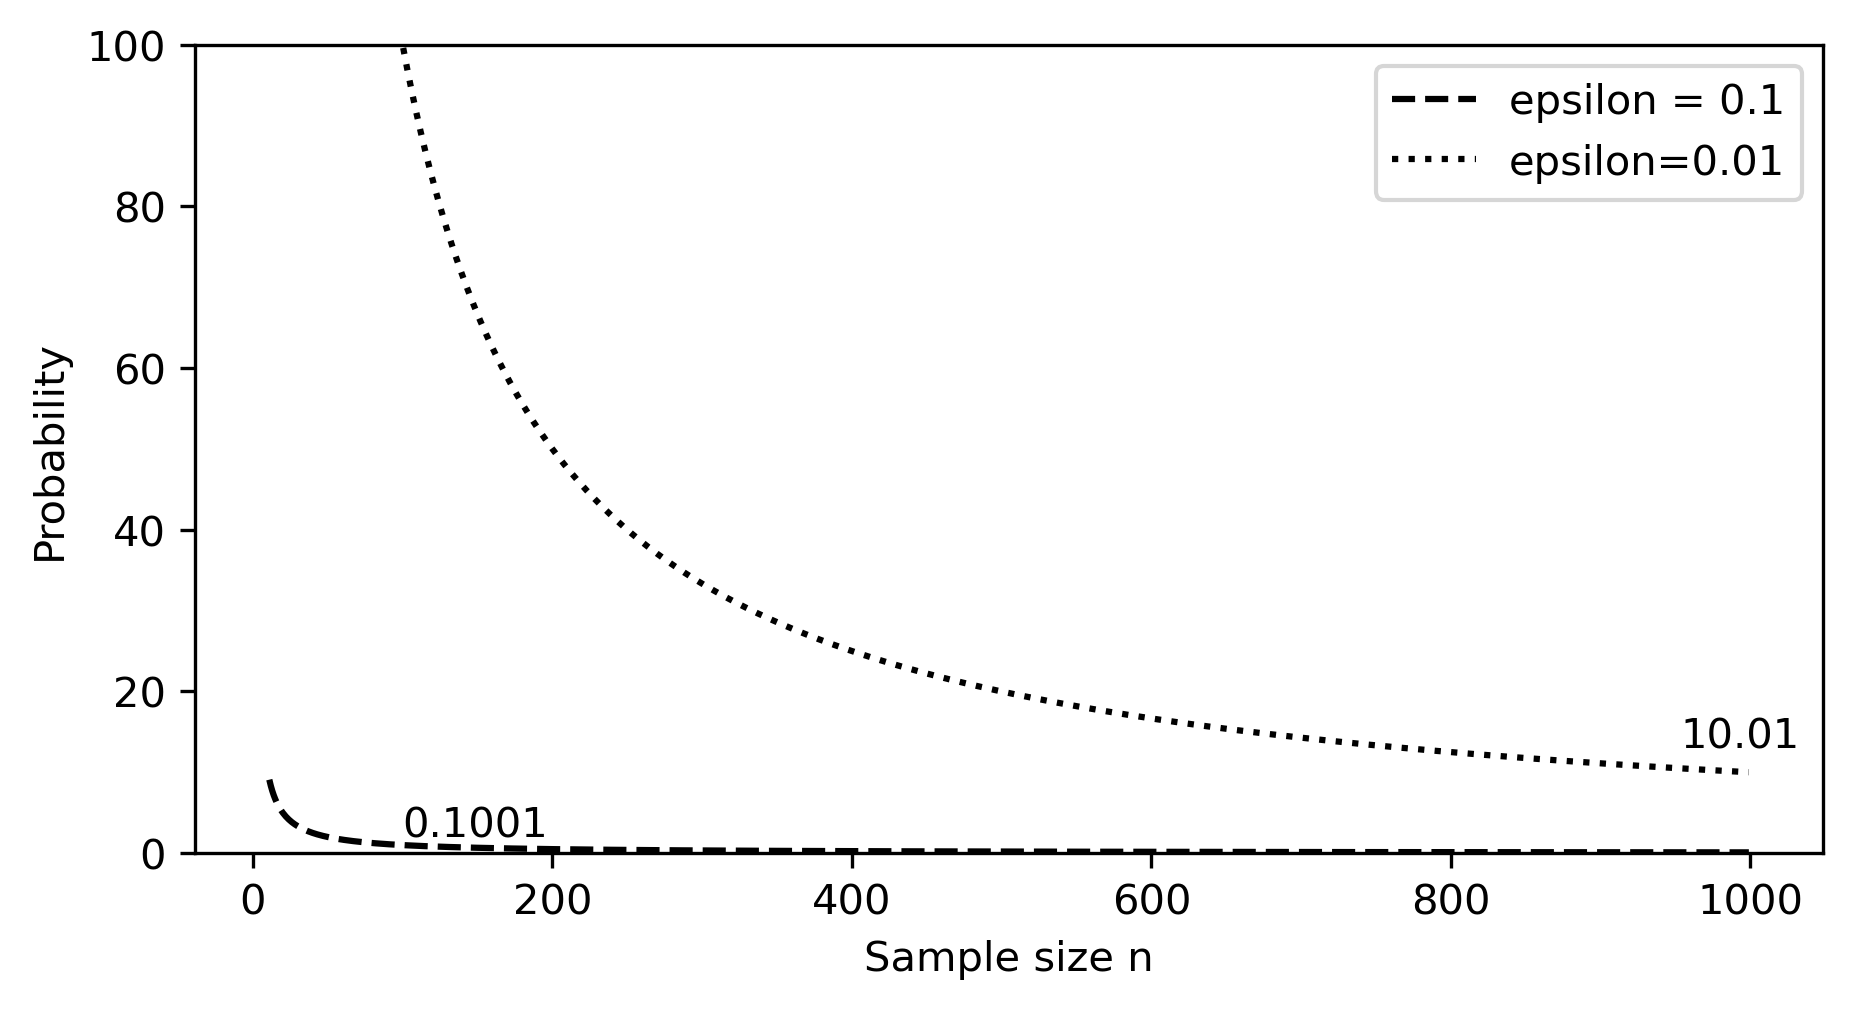
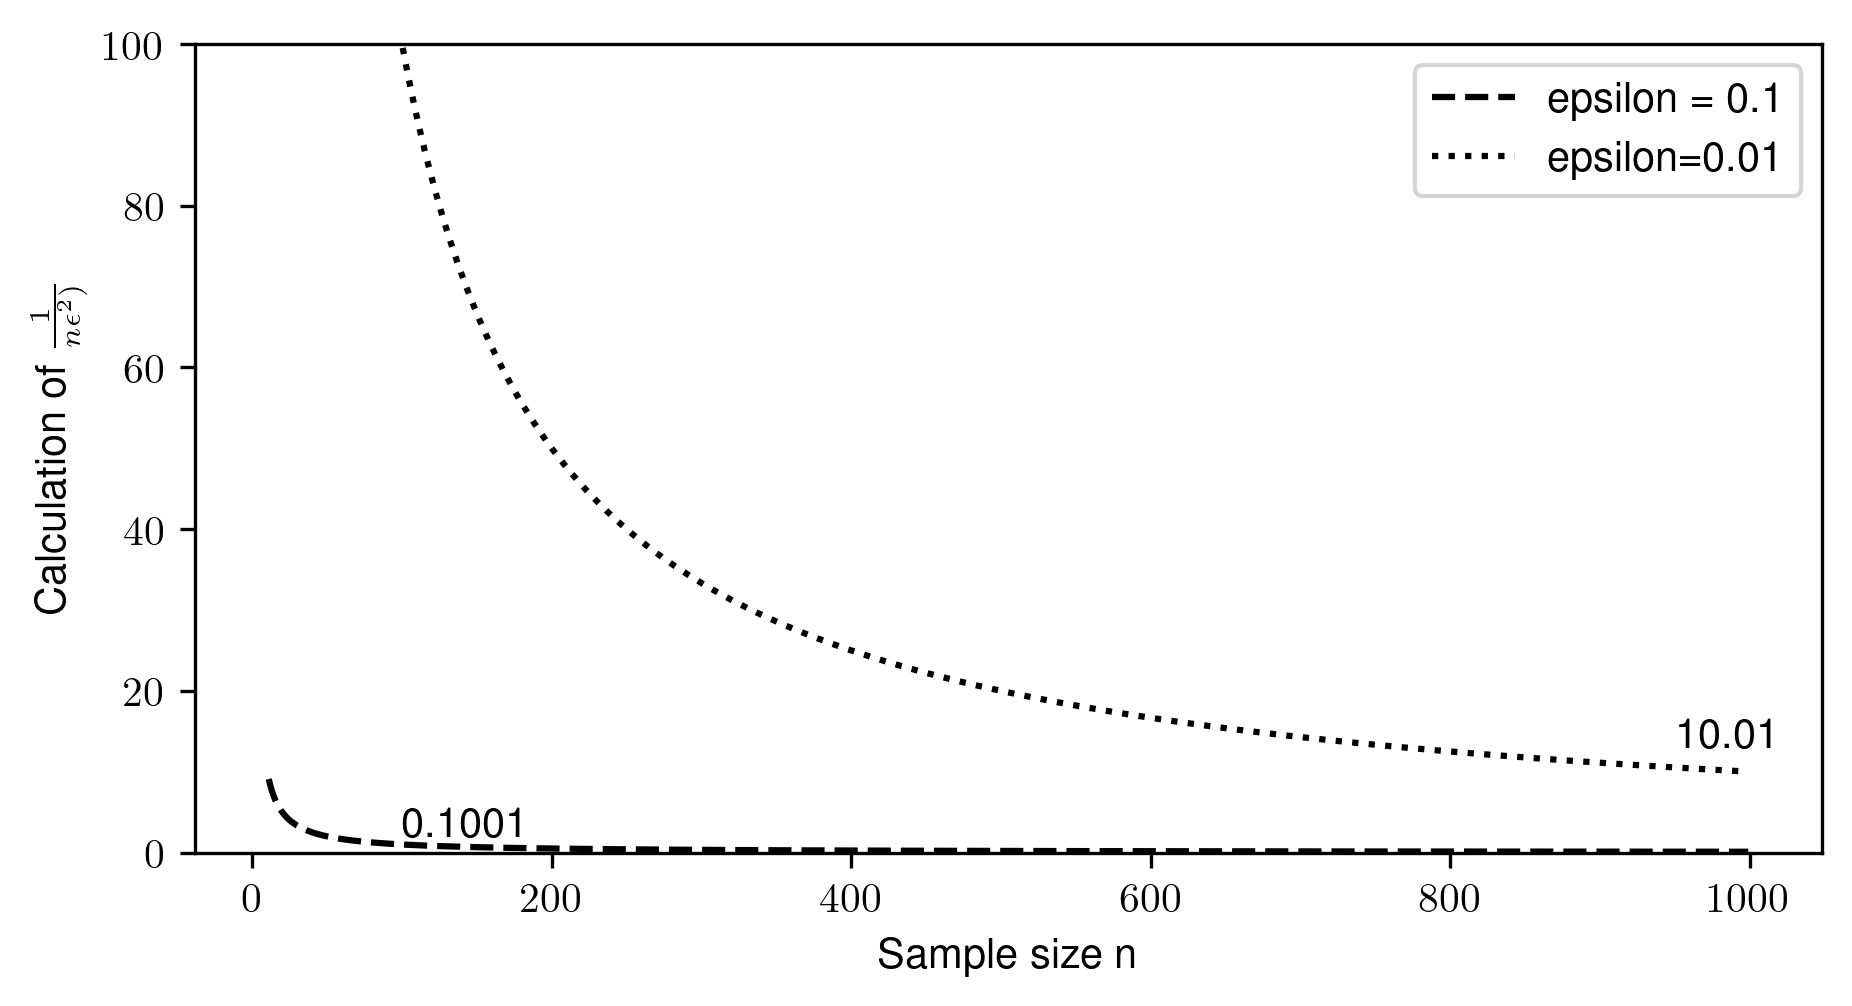
[update] the post

diff --git a/docs/_math/probabilistic-thinking2.md b/docs/_math/probabilistic-thinking2.md
@@ -160,7 +160,9 @@ which means that one needs a larger sample for that.
          style="width: 60%; display: block; margin: 0 auto;"/>
     <div class='caption'>
         <span class='caption-label'>Figure 1.</span> Plot of probability against
-        sample size based on equation (6).  
+        sample size based on equation (6).  <i>Remark</i>: the probability 
+        is bounded by 1, the bound value calculation does not make too much 
+        sense for dotted line. 
     </div>
 </div>
 
@@ -207,10 +209,55 @@ $$
 $$
 
 Equation (8) shows that overload probability is extremely small when
-$k << n!$, which seems counterintuitive as it means bound gets worse as
-$k$ grows (more servers do not help). 
+$k << n$,  which seems counterintuitive as it means bound gets worse as
+$k$ grows (more servers do not help). When $k$ is large, the number of
+requests each server sees in expectation is very small so the law of 
+larger numbers does not 'kick in'. 
 
+### Maximum server load 
 
+We have shown the probability of one server overloaded in equation (8), now
+we are interested in the probability of maximum server load exceeds its
+capacity. To get the maximum server load, we need to have a list of servers 
+that overloaded, this means not just one sever but possible many of them are
+overloaded. The value of maximum load on any server can be written as the random variable:
+
+$$S = \max_{i \in [1, \cdots, k]} R_i$$ 
+
+How could we form a probability for $S \geq (2n)/k$ in terms of $R_i$?
+Let's start from null case, which is that no $R_i$ is greater or equal to 
+$(2n)/k$. For this kind of case, $S < (2n)/k$. Therefore, we need to have
+at least one of $R_i$ is greater or equal to $(2n)/k$. On the other side,
+if all of $R_i$ is greater or equal to $(2n)/k$, then there must be the case
+that $S \geq (2n)k$. However, we do not need all of them. We can transform them
+as the 'or' problem that guarantees the event $S$:
+
+$$
+\begin{aligned}
+\mathbb{P}(S \geq \frac{2n}{k})  & = \mathbb{P} \left ( \left[ R_1 \geq \frac{2n}{k} \right ] \ \text{or} \ \left[ R_2 \geq \frac{2n}{k} \right ] \ \text{or} \ \cdots \ \text{or} \ \left[ R_k \geq \frac{2n}{k} \right ] \right ) \\
+& = \mathbb{P} \left ( \cup_{i=1}^k \left[ R_i \geq \frac{2n}{k} \right ] \right )
+\end{aligned}
+$$
+
+__Union Bound.__ For any random events $A_1, A_2, \cdots, A_k$, we have
+
+$$
+\mathbb{P}(A_1 \cup A_2 \cup \cdots \cup A_k) \leq \mathbb{P}(A_1) + \mathbb{P}(A_2) + \cdots + \mathbb{P}(A_k) \tag{9}
+$$
+
+With the union bound, it is easy to show 
+
+$$
+\begin{aligned}
+\mathbb{P}(S \geq \frac{2n}{k})  & = \mathbb{P} \left ( \cup_{i=1}^k \left[ R_i \geq \frac{2n}{k} \right ] \right )  \\ 
+& \leq \sum_{i=1}^k \mathbb{P}  \left ( \left[ R_i \geq \frac{2n}{k} \right ] \right ) \\ 
+& \leq \sum_{i=1}^k \frac{k}{n} \\
+& \leq \frac{k^2}{n}
+\end{aligned}  
+$$
+
+This means as long as $k \leq O(\sqrt{n})$, with good probability, the 
+maximum server load will be small (compared to the expected to load). 
 
 
 

diff --git a/docs/math-tags/binomial-distribution.md b/docs/math-tags/binomial-distribution.md
@@ -1,0 +1,6 @@
+---
+layout: math_tagpage
+title: "Tag: binomial-distribution"
+tag: binomial-distribution
+robots: noindex
+---
